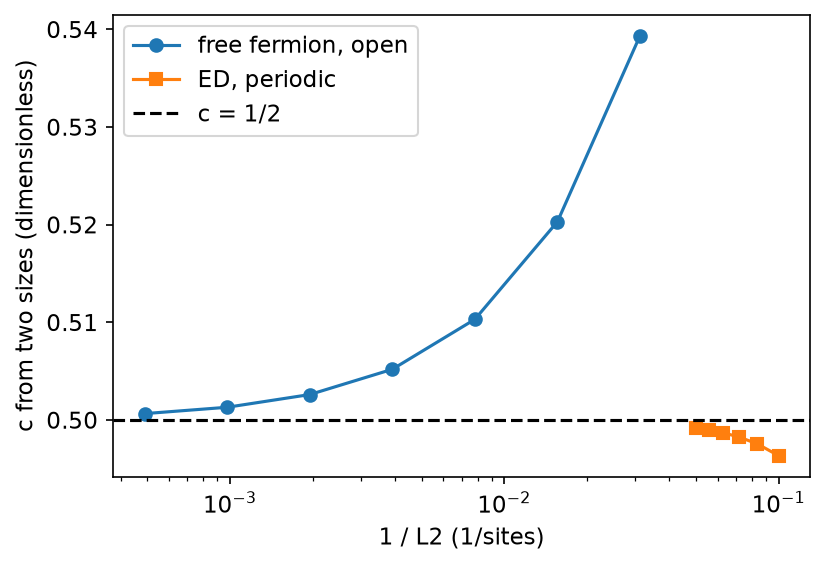
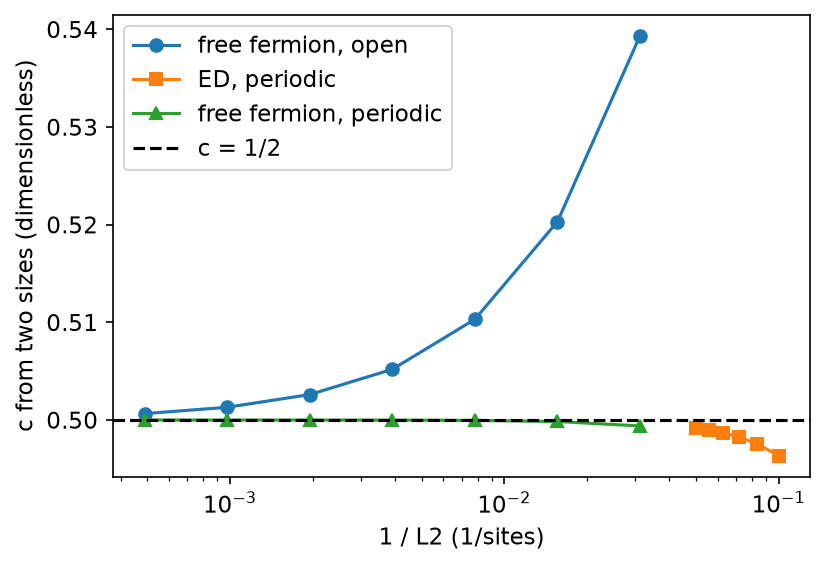
Add free fermions for periodic chains

diff --git a/run_periodic_ff.py b/run_periodic_ff.py
@@ -1,0 +1,83 @@
+"""Free fermion solution for periodic chains (even parity sector). Added after the first version
+(see UPGRADE_PLAN.md). Writes results/ff_periodic_*.csv, results/ed_vs_ff_periodic.csv and
+results/central_charge_periodic.json."""
+import csv
+import json
+import time
+
+import numpy as np
+
+from tfim_ed import ground_state
+from entropy import entropy_profile
+from free_fermion import majorana_matrix_periodic, ground_state_covariance, block_entropy
+from central_charge import fit_c, c_from_two_sizes
+
+H = 1.0
+LS = [16, 32, 64, 128, 256, 512, 1024, 2048]
+FIT_L = 1024
+CROSS_LS = [8, 12, 16, 20]
+CROSS_HS = (1.0, 1.5, 2.0)
+
+
+def write_csv(path, header, rows):
+    with open(path, "w", newline="") as f:
+        w = csv.writer(f)
+        w.writerow(header)
+        for r in rows:
+            w.writerow([repr(float(x)) if isinstance(x, (float, np.floating)) else x for x in r])
+
+
+def ff_solve(L, h):
+    return ground_state_covariance(majorana_matrix_periodic(L, h))
+
+
+def main():
+    t0 = time.time()
+    half, rows_half = {}, []
+    fit_ls, fit_S, rows_prof = [], [], []
+    for L in LS:
+        G, E0 = ff_solve(L, H)
+        s = block_entropy(G, L // 2)
+        half[L] = s
+        rows_half.append([L, H, E0, s])
+        if L == FIT_L:
+            fit_ls = list(range(64, 513, 16))
+            for l in fit_ls:
+                v = block_entropy(G, l)
+                fit_S.append(v)
+                rows_prof.append([L, H, l, v])
+        print("L = %4d  S_half = %.10f" % (L, s), flush=True)
+    write_csv("results/ff_periodic_half_chain.csv", ["L", "h", "E0", "S_half"], rows_half)
+    write_csv("results/ff_periodic_profiles.csv", ["L", "h", "l", "S"], rows_prof)
+
+    cross = []
+    for L in CROSS_LS:
+        for h in CROSS_HS:
+            E_ed, psi = ground_state(L, h, "periodic")
+            S_ed = entropy_profile(psi, L)
+            G, E_ff = ff_solve(L, h)
+            dS = max(abs(S_ed[l] - block_entropy(G, l)) for l in range(L + 1))
+            cross.append([L, h, dS, abs(E_ed - E_ff)])
+    write_csv("results/ed_vs_ff_periodic.csv", ["L", "h", "max_abs_dS", "abs_dE"], cross)
+
+    pairs = [{"L1": a, "L2": b, "c": c_from_two_sizes(half[a], a, half[b], b, "periodic")}
+             for a, b in zip(LS[:-1], LS[1:])]
+    c_fit, _ = fit_c(fit_ls, fit_S, FIT_L, "periodic")
+    out = {
+        "ff_periodic_pairs": pairs,
+        "c_periodic_final": pairs[-1]["c"],
+        "c_periodic_systematic": abs(pairs[-1]["c"] - pairs[-2]["c"]),
+        "c_fit_ff_periodic_L1024": c_fit,
+        "max_abs_dS": max(r[2] for r in cross),
+        "max_abs_dE": max(r[3] for r in cross),
+        "run_time_seconds": time.time() - t0,
+    }
+    with open("results/central_charge_periodic.json", "w") as f:
+        json.dump(out, f, indent=2)
+    print("c_periodic_final = %.6f  systematic = %.2e  fit = %.6f" % (out["c_periodic_final"], out["c_periodic_systematic"], c_fit))
+    print("max dS = %.2e  max dE = %.2e" % (out["max_abs_dS"], out["max_abs_dE"]))
+    print("run time %.1f s" % out["run_time_seconds"])
+
+
+if __name__ == "__main__":
+    main()

diff --git a/check_consistency.py b/check_consistency.py
@@ -23,9 +23,27 @@ with open("README.md") as f:
 for key in ["c_final", "c_final_systematic", "c_fit_ff_open_L1024", "c_fit_ed_periodic_L20", "c_ed_periodic_pair_18_20"]:
     t = f"{s[key]:.4f}"
     check(t in readme, f"README is missing {key} = {t}")
+# Rounding-level differences are stated as a bound, because their exact values depend on the computer.
 for key in ["max_abs_dS", "max_abs_dE"]:
-    t = f"{s[key]:.1e}"
-    check(t in readme, f"README is missing {key} = {t}")
+    check(s[key] < 1e-11, f"{key} = {s[key]:.1e} is not below the 1e-11 stated in the README")
+
+# periodic free fermion section (added after the first version)
+with open("results/central_charge_periodic.json") as f:
+    cp = json.load(f)
+for q in cp["ff_periodic_pairs"]:
+    row = f"| Two sizes, free fermion, periodic, h = 1 | L = {q['L1']} and {q['L2']} | {q['c']:.6f} |"
+    check(row in readme, f"README is missing the periodic row {row}")
+check(f"| Fit of S(l), free fermion, periodic, h = 1 | L = 1024, l = 64 to 512 in steps of 16 | {cp['c_fit_ff_periodic_L1024']:.6f} |" in readme, "README is missing the periodic fit row")
+check(f"give c = {cp['c_periodic_final']:.6f}." in readme, "README first paragraph is missing the periodic c")
+check(f"The last doubling gives c = {cp['c_periodic_final']:.6f}." in readme, "README is missing the last periodic doubling")
+for key in ["max_abs_dS", "max_abs_dE"]:
+    check(cp[key] < 1e-11, f"periodic {key} = {cp[key]:.1e} is not below the 1e-11 stated in the README")
+check(cp["c_periodic_systematic"] < 1e-6, "periodic systematic is not below the 1e-6 stated in the README")
+check(abs(cp["c_periodic_final"] - 0.5) < 1e-6, "periodic distance from 1/2 is not below the 1e-6 stated in the README")
+check(f"the open chain is {abs(s['c_final'] - 0.5):.1e} away from 1/2 and the periodic chain is less than 1e-6 away" in readme, "README distances for L = 1024 and 2048 are wrong")
+check(f"the open chain is {abs(s['ff_open_pairs'][0]['c'] - 0.5):.1e} away and the periodic chain is {abs(cp['ff_periodic_pairs'][0]['c'] - 0.5):.1e} away" in readme, "README distances for L = 16 and 32 are wrong")
+check(all(q["c"] < 0.5 for q in cp["ff_periodic_pairs"]), "periodic pairs should all be below 0.5")
+check(os.path.exists("UPGRADE_PLAN.md"), "UPGRADE_PLAN.md is missing")
 
 if s["consistent"]:
     check("consistent" in readme, "README should say consistent")
@@ -39,7 +57,7 @@ EXTS = (".py", ".md", ".txt", ".csv", ".json")
 bad = [chr(c) for c in (0x2014, 0x2013, 0x201C, 0x201D, 0x2018, 0x2019)]
 bad += ["/Users/"]
 # Only the files that are uploaded are scanned.
-files = ["README.md", "PREREGISTRATION.md", "LICENSE", ".gitignore", "requirements.txt"]
+files = ["README.md", "PREREGISTRATION.md", "UPGRADE_PLAN.md", "LICENSE", ".gitignore", "requirements.txt"]
 files += sorted(f for f in os.listdir(".") if f.endswith(".py"))
 for d in ("tests", "results", "figures"):
     files += sorted(os.path.join(d, f) for f in os.listdir(d) if not f.startswith(".") and f != "__pycache__")

diff --git a/tests/test_free_fermion.py b/tests/test_free_fermion.py
@@ -3,7 +3,11 @@ import pytest
 
 from tfim_ed import ground_state
 from entropy import entropy_profile
-from free_fermion import majorana_matrix, ground_state_covariance, block_entropy
+import json
+import csv
+
+from free_fermion import majorana_matrix, majorana_matrix_periodic, ground_state_covariance, block_entropy
+from central_charge import c_from_two_sizes
 
 
 @pytest.mark.parametrize("L", [4, 6, 8, 10, 12])
@@ -42,3 +46,36 @@ def test_near_zero_mode_raises_at_large_L(L, h):
 def test_critical_chain_does_not_raise():
     Gamma, E0 = ground_state_covariance(majorana_matrix(512, 1.0))
     assert np.isfinite(E0)
+
+
+@pytest.mark.parametrize("L", [4, 6, 8, 10, 12])
+@pytest.mark.parametrize("h", [0.5, 1.0, 2.0])
+def test_periodic_matches_ed(L, h):
+    E_ed, psi = ground_state(L, h, "periodic")
+    Gamma, E_ff = ground_state_covariance(majorana_matrix_periodic(L, h))
+    assert abs(E_ed - E_ff) < 1e-9
+    S_ed = entropy_profile(psi, L)
+    for l in range(L + 1):
+        assert abs(S_ed[l] - block_entropy(Gamma, l)) < 1e-8
+
+
+@pytest.mark.parametrize("h", [0.5, 1.0, 2.0])
+def test_periodic_energy_matches_exact_formula(h):
+    L = 64
+    _, E0 = ground_state_covariance(majorana_matrix_periodic(L, h))
+    k = (2 * np.arange(L) + 1) * np.pi / L
+    exact = -np.sum(np.sqrt(1.0 + h * h - 2.0 * h * np.cos(k)))
+    assert abs(E0 - exact) < 1e-9
+
+
+def test_periodic_guard_does_not_fire_in_the_ordered_phase():
+    Gamma, E0 = ground_state_covariance(majorana_matrix_periodic(1024, 0.5))
+    assert np.isfinite(E0)
+
+
+def test_two_size_estimator_on_the_committed_open_chain_data():
+    with open("results/ff_half_chain.csv") as f:
+        rows = {int(r["L"]): float(r["S_half"]) for r in csv.DictReader(f) if float(r["h"]) == 1.0}
+    with open("results/central_charge.json") as f:
+        c_final = json.load(f)["c_final"]
+    assert abs(c_from_two_sizes(rows[1024], 1024, rows[2048], 2048, "open") - c_final) < 1e-12

diff --git a/make_figures.py b/make_figures.py
@@ -86,6 +86,9 @@ save(fig, "fig2_calabrese_cardy.png")
 fig, ax = plt.subplots(figsize=(6, 4))
 ax.plot([1 / p["L2"] for p in cc["ff_open_pairs"]], [p["c"] for p in cc["ff_open_pairs"]], "o-", label="free fermion, open")
 ax.plot([1 / p["L2"] for p in cc["ed_periodic_pairs"]], [p["c"] for p in cc["ed_periodic_pairs"]], "s-", label="ED, periodic")
+with open(f"{R}/central_charge_periodic.json") as f:
+    ccp = json.load(f)
+ax.plot([1 / p["L2"] for p in ccp["ff_periodic_pairs"]], [p["c"] for p in ccp["ff_periodic_pairs"]], "^-", label="free fermion, periodic")
 ax.axhline(0.5, ls="--", color="k", label="c = 1/2")
 ax.set_xscale("log")
 ax.set_xlabel("1 / L2 (1/sites)")

diff --git a/free_fermion.py b/free_fermion.py
@@ -63,3 +63,16 @@ def entropy_profile_ff(Gamma, L):
         S[l] = block_entropy(Gamma, l)
         S[L - l] = S[l]
     return S
+
+
+def majorana_matrix_periodic(L, h, J=1.0):
+    """Majorana matrix for the periodic chain in the even parity sector.
+
+    In that sector the boundary bond X_{L-1} X_0 maps to an antiperiodic fermion bond,
+    so it enters with the opposite sign to the bulk bonds. Added after the first version
+    (see UPGRADE_PLAN.md). Valid only for the even sector ground state.
+    """
+    A = majorana_matrix(L, h, J)
+    A[2 * L - 1, 0] = -2 * J
+    A[0, 2 * L - 1] = 2 * J
+    return A

diff --git a/README.md b/README.md
@@ -1,6 +1,6 @@
 # Entanglement in the quantum Ising chain
 
-I measure the central charge of the critical transverse field Ising chain from the entanglement entropy of its ground state. I use exact diagonalization up to 20 spins and an exact free fermion solution up to 2048 spins. The entropy of a block grows like the logarithm of the block size at the critical point, and the slope gives c. My main result is c = 0.5007, against the exact 1/2, with a finite size systematic of 0.0007.
+I measure the central charge of the critical transverse field Ising chain from the entanglement entropy of its ground state. I use exact diagonalization up to 20 spins and an exact free fermion solution up to 2048 spins. The entropy of a block grows like the logarithm of the block size at the critical point, and the slope gives c. My main result is c = 0.5007, against the exact 1/2, with a finite size systematic of 0.0007. Periodic chains of up to 2048 spins, added later, give c = 0.500000.
 
 ![Calabrese and Cardy fits at h = 1](figures/fig2_calabrese_cardy.png)
 
@@ -29,25 +29,20 @@ The 1D quantum Ising chain and the 2D classical Ising model are in the same univ
 
 ## How to run it
 
-I used Python 3.12.5.
+I used Python 3.12.5. Run each command from the project folder with the environment active (`source .venv/bin/activate`). The times were measured on my laptop with another job running.
 
-```
-python3.12 -m venv .venv
-source .venv/bin/activate
-pip install -r requirements.txt
-```
+| Command | What it does | Time |
+| --- | --- | --- |
+| `python3.12 -m venv .venv` | makes the environment | 1.9 s |
+| `pip install -r requirements.txt` | installs the pinned packages | 11 s |
+| `python -m pytest -q` | runs the 121 tests | 15 s |
+| `python run_all.py --quick` | a small run, written to `results_quick/` | 30 s |
+| `python run_all.py` | the full run, written to `results/` | 135 s |
+| `python run_periodic_ff.py` | the periodic free fermion run (added after the first version) | 25 s |
+| `python make_figures.py` | makes the figures | 0.9 s |
+| `python check_consistency.py` | checks the numbers in this README | 0.1 s |
 
-Then, from the project folder with the environment active:
-
-```
-python -m pytest -q
-python run_all.py --quick
-python run_all.py
-python make_figures.py
-python check_consistency.py
-```
-
-The full run took about 124 seconds on my laptop. The quick run writes to `results_quick/` and takes under a minute. Everything runs offline. Nothing is downloaded and no account is needed.
+Everything runs offline. Nothing is downloaded and no account is needed.
 
 ## Method
 
@@ -55,9 +50,9 @@ Exact diagonalization. The parity P = product of Z_i commutes with H. For every 
 
 Free fermions. The Jordan-Wigner map turns the chain into Majorana fermions, and H becomes quadratic. I build the real antisymmetric matrix A, and the ground state covariance matrix is Gamma = -A (-A A)^(-1/2). The entropy of the first l sites comes from the eigenvalues of i Gamma restricted to those sites (Peschel, and Vidal and others). Only blocks that start at site 0 are used, because only for them the Majorana reduced state equals the spin reduced state. The chain is symmetric under reflection and the ground state is unique, so S(l) = S(L - l). I compute only l up to L/2 where I need a profile.
 
-I use the free fermion code only for open chains with h >= 1. For h < 1 the open chain has an edge mode whose energy falls roughly exponentially with L. The code raises an error when the smallest mode energy is below 1e-6. That limit sits well above the rounding floor of about 1e-8, so the check does not depend on rounding. For example, it raises at h = 0.5 with L = 1024 and at h = 0.9 with L = 256. At h = 1 the smallest mode energy is still about 1.5e-3 at L = 2048.
+I use the free fermion code for open chains with h >= 1 and, added later, for periodic chains in the even parity sector (see Results). For open chains with h < 1 the open chain has an edge mode whose energy falls roughly exponentially with L. The code raises an error when the smallest mode energy is below 1e-6. That limit sits well above the rounding floor of about 1e-8, so the check does not depend on rounding. For example, it raises at h = 0.5 with L = 1024 and at h = 0.9 with L = 256. At h = 1 the smallest mode energy is still about 1.5e-3 at L = 2048.
 
-Checking one method against the other. For open chains with L = 8, 12, 16, 20 and h = 1.0, 1.5, 2.0, the largest difference in entropy over all l is 7.9e-13 and the largest difference in ground state energy is 5.0e-14.
+Checking one method against the other. For open chains with L = 8, 12, 16, 20 and h = 1.0, 1.5, 2.0, the largest differences in entropy (over all l) and in ground state energy are both below 1e-11. Differences this small are rounding error, so their exact values change from one computer to another, and I only state the bound.
 
 ## Results
 
@@ -73,13 +68,30 @@ The systematic is the absolute difference between the last two doublings of the 
 
 The free fermion estimates move halfway closer to 0.5 with each doubling, so the error falls like 1/L. A Richardson extrapolation of the last two doublings, 2 x 0.5007 - 0.5013 with the unrounded values, gives 0.50000. This is a supporting estimate, not part of the plan in `PREREGISTRATION.md`.
 
+### Periodic chains with free fermions (added after the first version)
+
+I added this after the first version, and the plan is in `UPGRADE_PLAN.md`. In the even parity sector the periodic spin chain maps to Majorana fermions with an antiperiodic boundary: the bond between the last and the first site enters with the opposite sign. I checked this against exact diagonalization of periodic chains with L = 8, 12, 16, 20 and h = 1.0, 1.5, 2.0. The largest differences in entropy (over all l) and in ground state energy are both below 1e-11. The results are in `results/central_charge_periodic.json`.
+
+| Estimator | Sizes | c |
+| --- | --- | --- |
+| Two sizes, free fermion, periodic, h = 1 | L = 16 and 32 | 0.499391 |
+| Two sizes, free fermion, periodic, h = 1 | L = 32 and 64 | 0.499848 |
+| Two sizes, free fermion, periodic, h = 1 | L = 64 and 128 | 0.499962 |
+| Two sizes, free fermion, periodic, h = 1 | L = 128 and 256 | 0.499990 |
+| Two sizes, free fermion, periodic, h = 1 | L = 256 and 512 | 0.499998 |
+| Two sizes, free fermion, periodic, h = 1 | L = 512 and 1024 | 0.499999 |
+| Two sizes, free fermion, periodic, h = 1 | L = 1024 and 2048 | 0.500000 |
+| Fit of S(l), free fermion, periodic, h = 1 | L = 1024, l = 64 to 512 in steps of 16 | 0.500001 |
+
+The last doubling gives c = 0.500000. It differs from the previous doubling by less than 1e-6. For the same pair of sizes, L = 1024 and 2048, the open chain is 6.5e-04 away from 1/2 and the periodic chain is less than 1e-6 away. At this level the last digits depend on rounding, so they can differ slightly between computers. For L = 16 and 32 the open chain is 3.9e-02 away and the periodic chain is 6.1e-04 away. I have not checked why the periodic chain converges faster. The main estimate stays the open chain value, because that is the estimate fixed in `PREREGISTRATION.md`. The periodic result is a supporting estimate.
+
 ![Entropy profiles](figures/fig1_entropy_profiles.png)
 
 Figure 1 shows the area law and the logarithm. At h = 0.5 and h = 2 the profile is flat in the middle. At h = 1 it keeps rising towards the middle of the chain.
 
 ![c against 1/L2](figures/fig3_central_charge_vs_size.png)
 
-Figure 3 shows c from pairs of sizes against 1/L2. The open chain approaches 0.5 from above. The periodic chain approaches it from below.
+Figure 3 shows c from pairs of sizes against 1/L2. The open chain approaches 0.5 from above. The periodic chain from exact diagonalization approaches it from below. The periodic free fermion series, added later, is also below 0.5 at every size and is much closer to it.
 
 ![Half chain entropy against the field](figures/fig4_half_chain_vs_field.png)
 
@@ -93,7 +105,7 @@ The pre-registered test passed. The main estimate is consistent with 1/2, becaus
 
 ## What I checked
 
-The test suite has 101 tests, and they all pass. They cover:
+The test suite has 121 tests, and they all pass. They cover:
 
 - The sparse Hamiltonian against a full Hamiltonian built from Kronecker products of Pauli matrices, for L = 2, 3, 4, both boundaries.
 - The periodic ground state energy against the exact formula, for L up to 12.
@@ -103,10 +115,11 @@ The test suite has 101 tests, and they all pass. They cover:
 - The covariance matrix properties, the single site case, and the near zero mode error at large L for h < 1 (and no error at h = 1).
 - The entropy of product, Bell and random states, the bit order, and the reflection symmetry of ground state entropy.
 - The fits of c on synthetic data.
+- The periodic free fermion solution (added after the first version): energy and every block entropy against exact diagonalization for L = 4 to 12 and h = 0.5, 1, 2, the energy against the exact formula at L = 64, no near zero mode error at L = 1024 and h = 0.5, and the two size estimator on the committed open chain data.
 
 ## Limits
 
-This reproduces a known exact result. The uncertainty is a finite size systematic and not a statistical error. Exact diagonalization stops at L = 20. The free fermion part covers only open chains with h >= 1. I study only ground states. I study only the von Neumann entropy.
+This reproduces a known exact result. The uncertainty is a finite size systematic and not a statistical error. Exact diagonalization stops at L = 20. The free fermion part covers open chains with h >= 1 and periodic chains in the even parity sector. I study only ground states. I study only the von Neumann entropy.
 
 ## Plan written first
 
